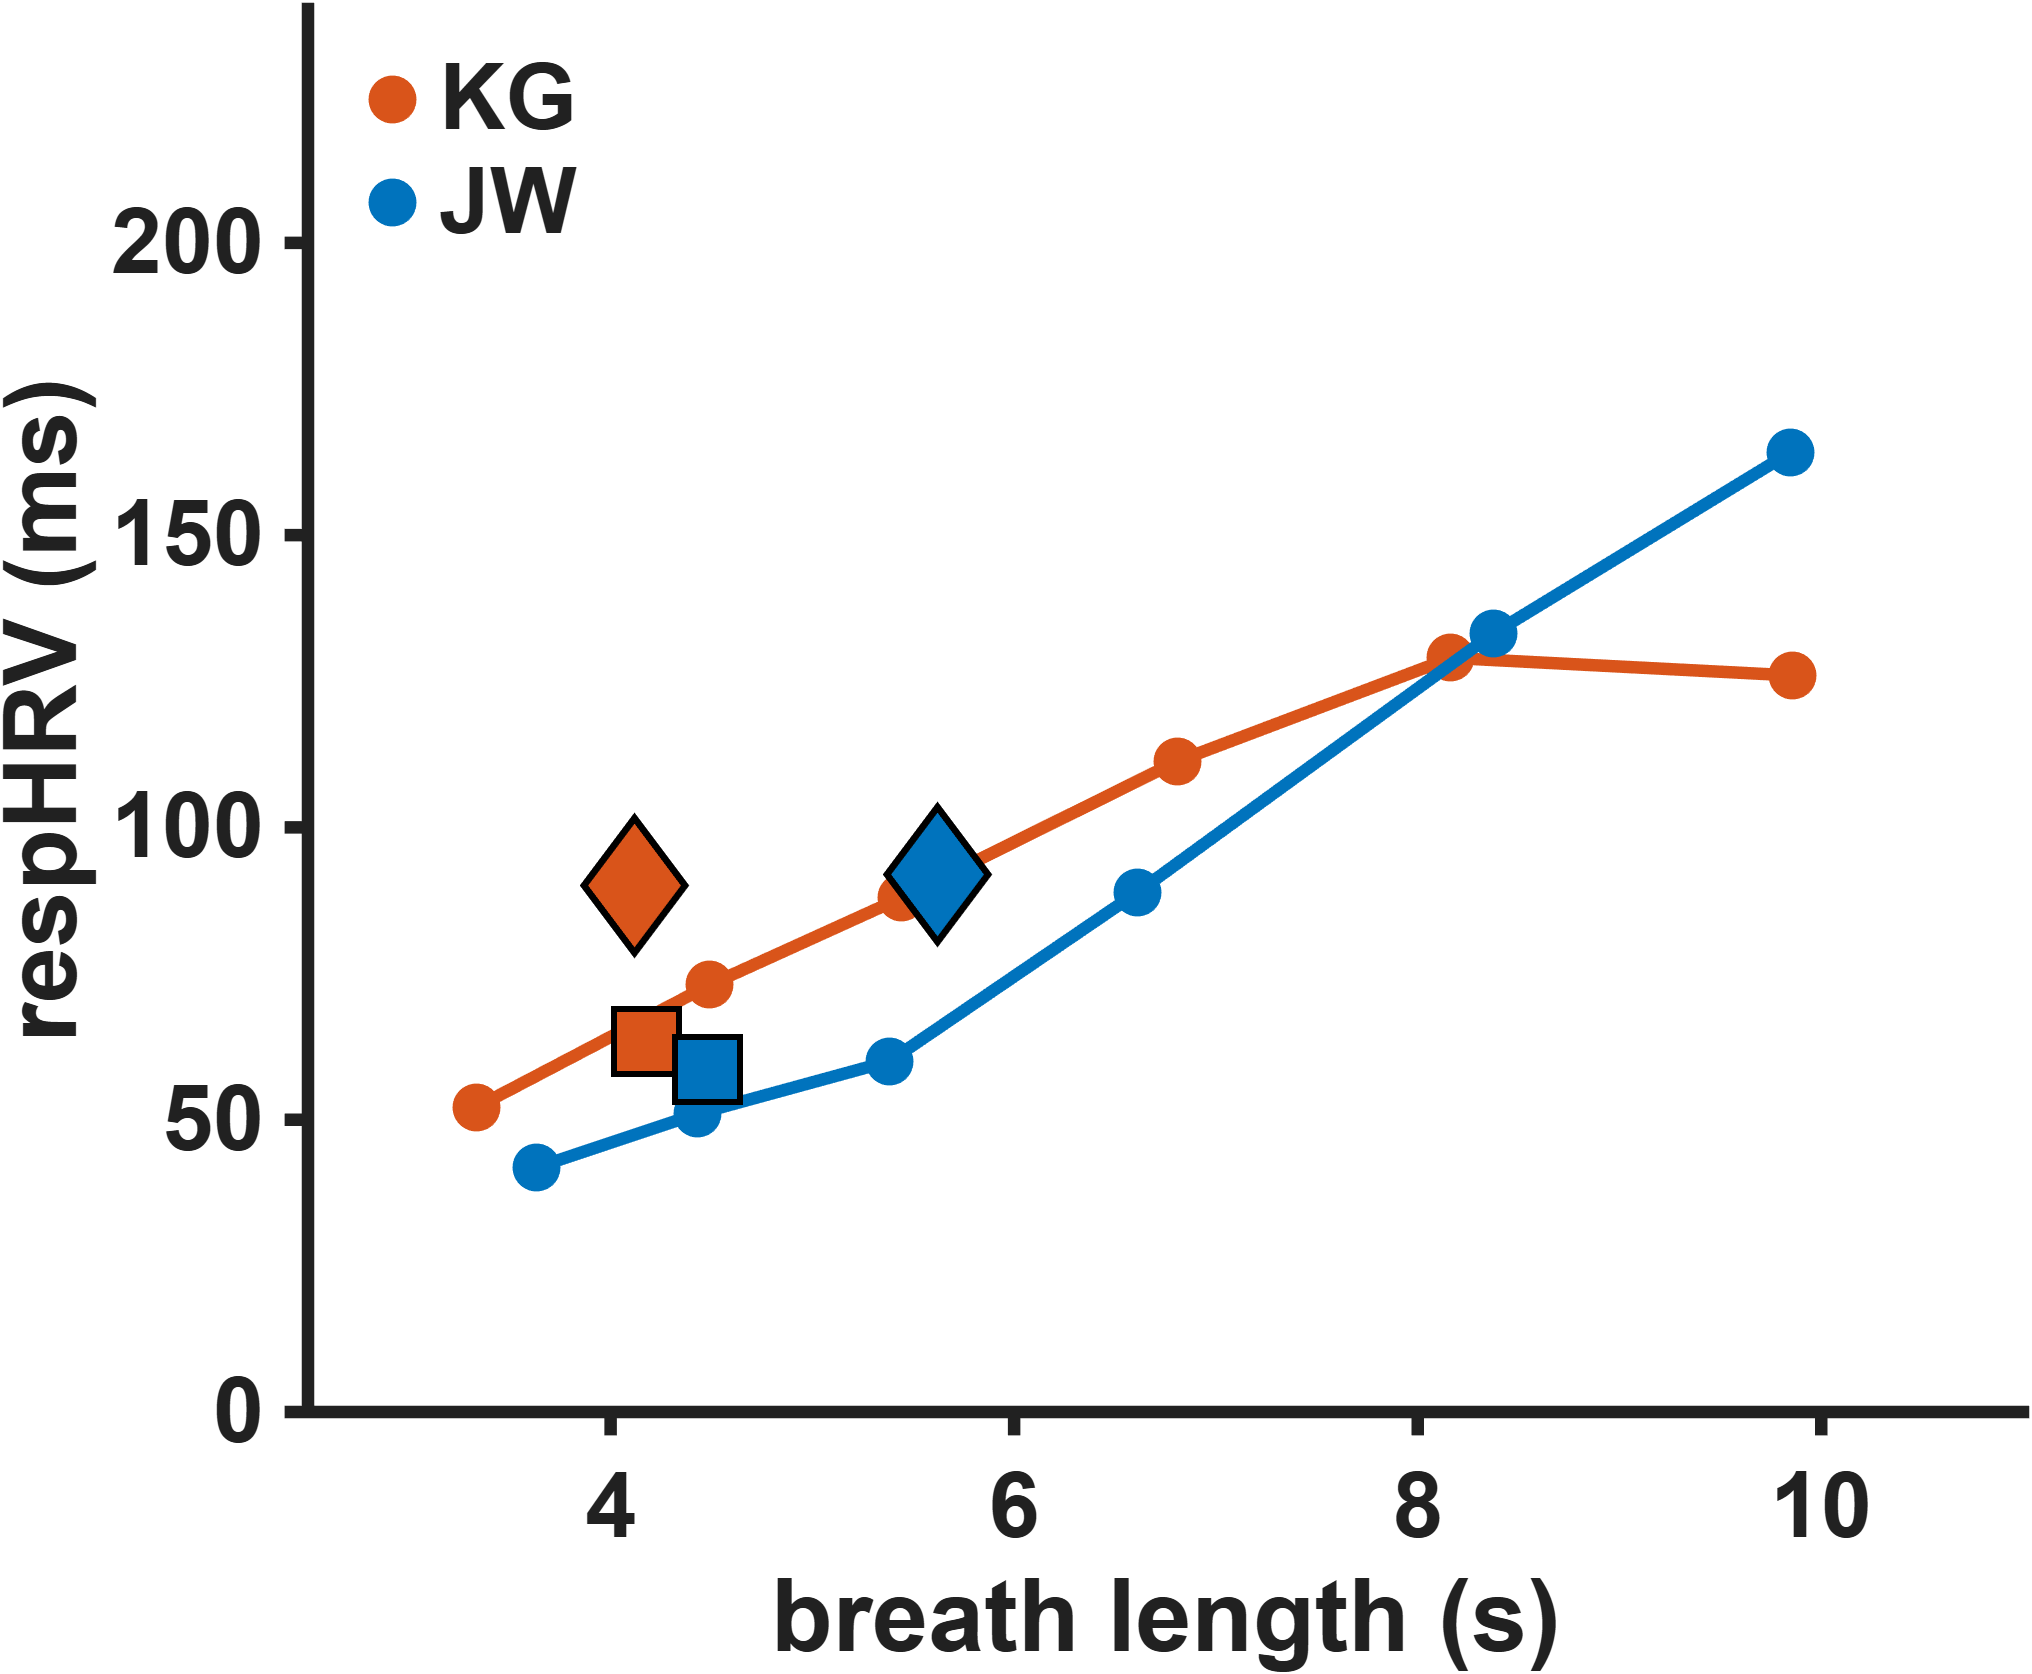
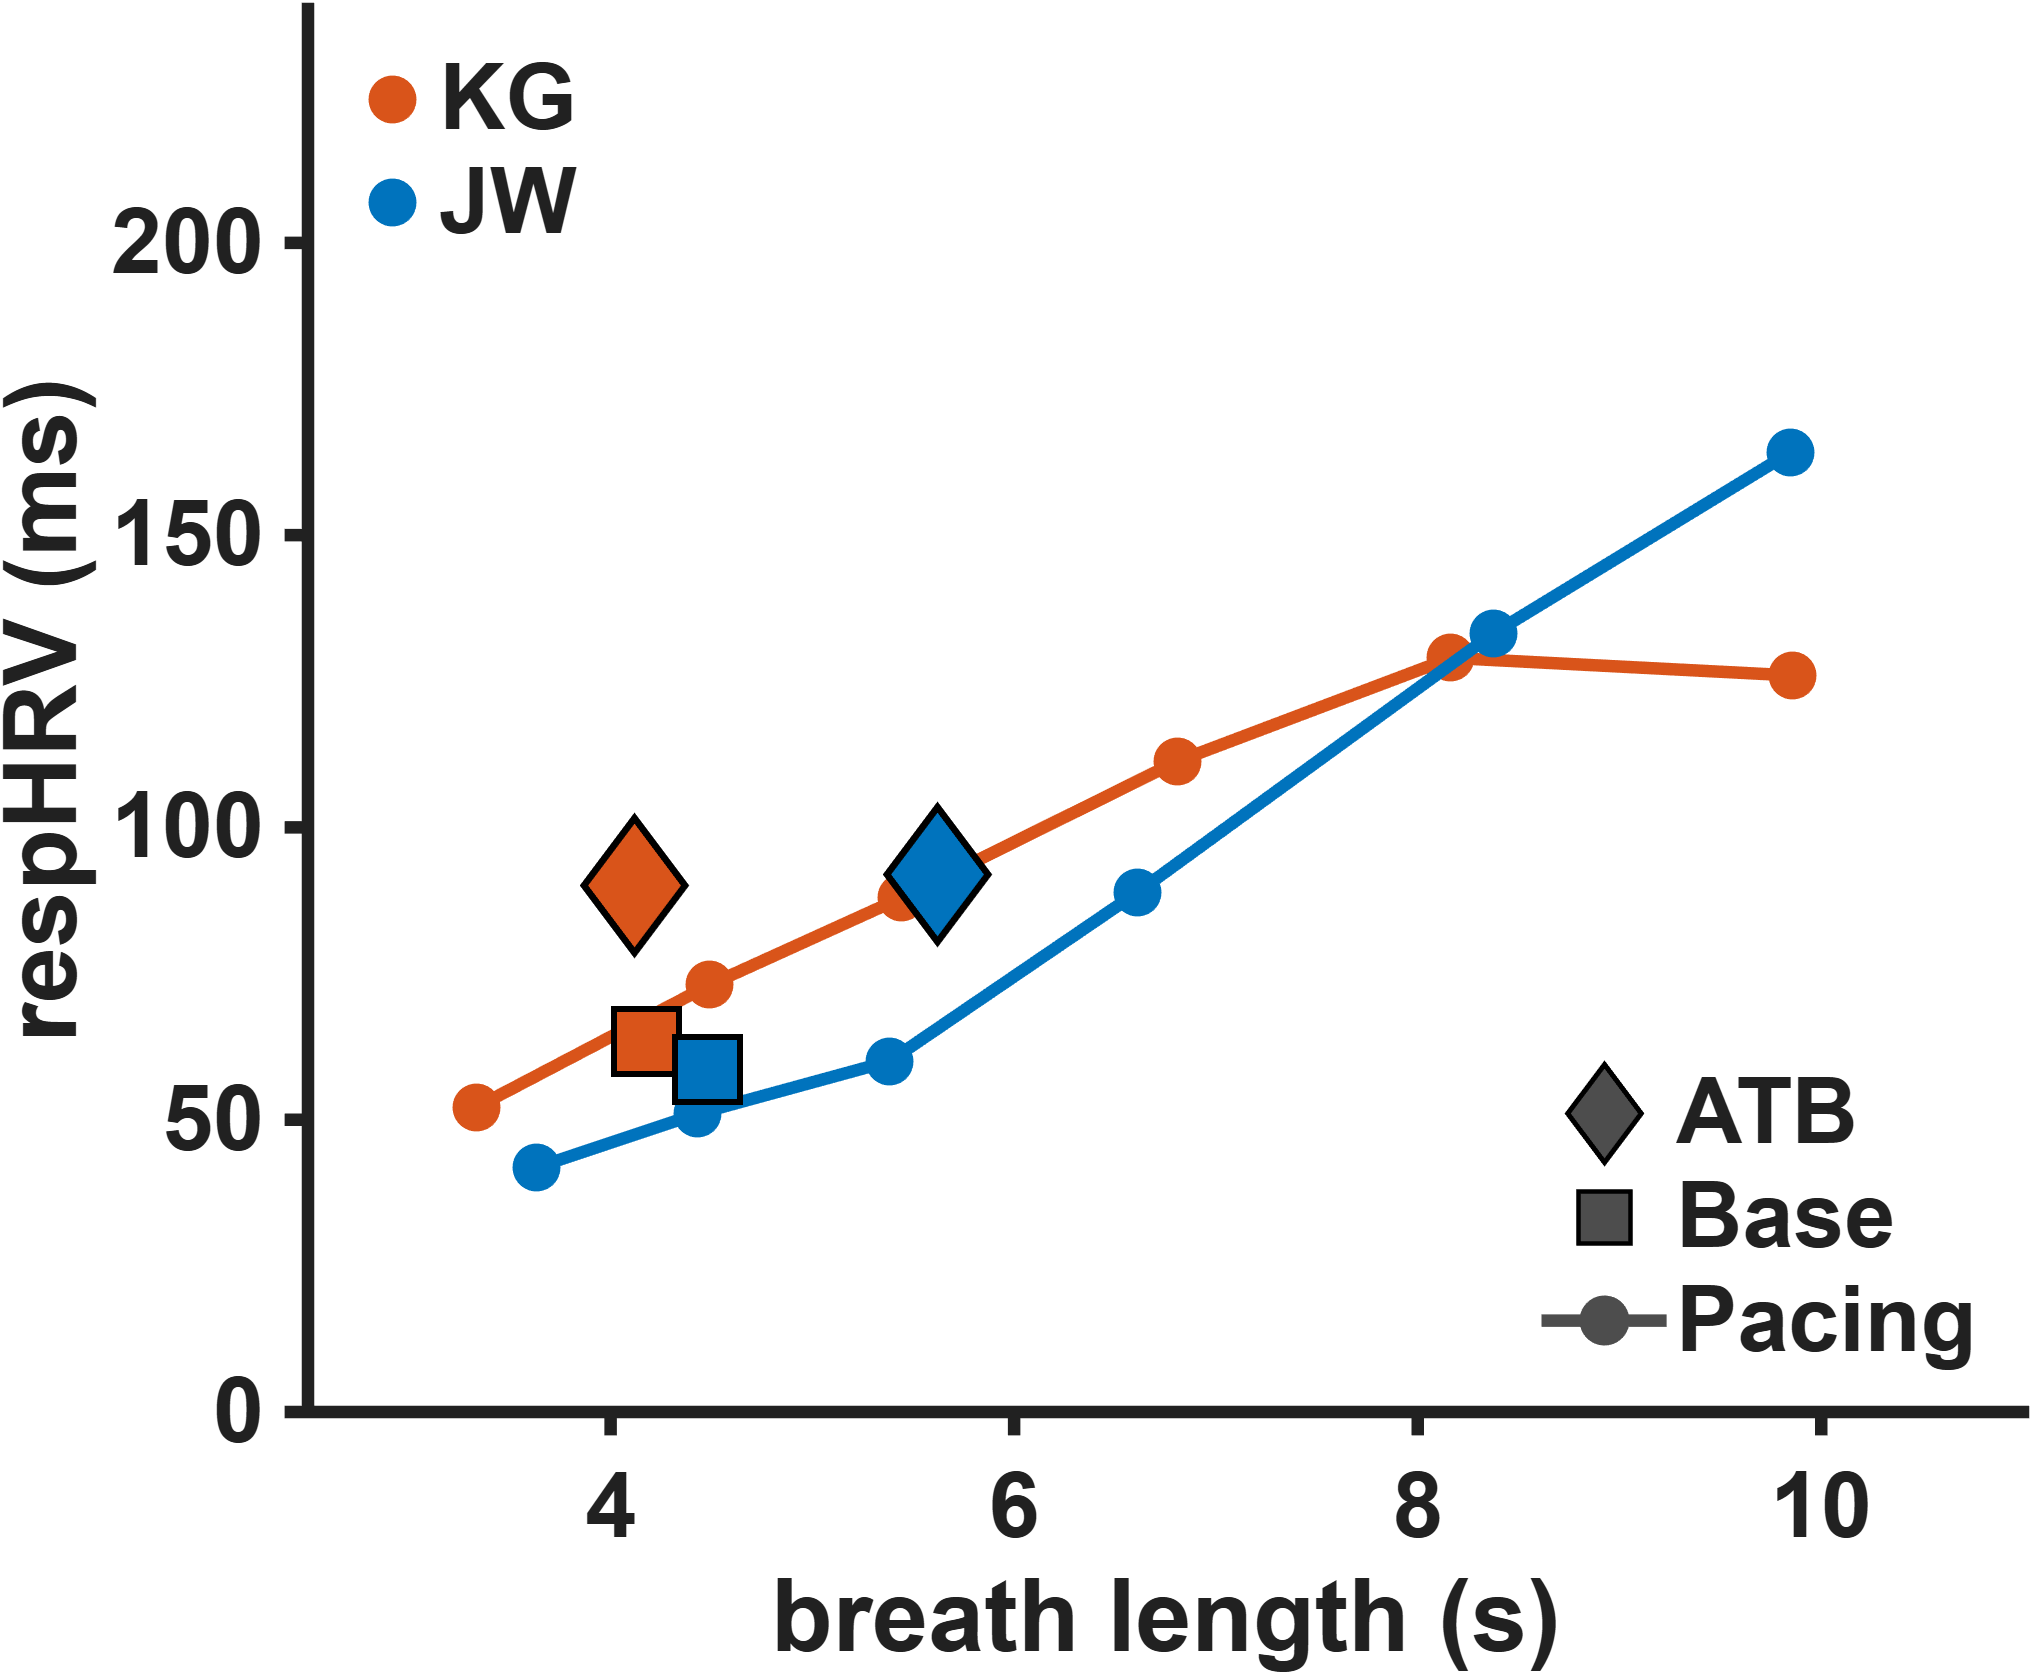
grant RSA-by-length: add a shape legend (diamond=ATB, square=Base, connected dot=Pacing)

Changed region(s): [[0.7441, 0.6213, 0.9921, 0.8387]]

diff --git a/reports/pacedBreathing_grantFigures/grantFigs.m b/reports/pacedBreathing_grantFigures/grantFigs.m
@@ -118,6 +118,16 @@ xlabel(ax, 'breath length (s)', 'FontSize', FS_LAB, 'FontWeight', 'bold');
 ylabel(ax, 'respHRV (ms)', 'FontSize', FS_LAB, 'FontWeight', 'bold');
 styleAx(ax);
 legend(h, names, 'FontSize', FS_TICK, 'FontWeight', 'bold', 'Location', 'northwest', 'Box', 'off');
+% second legend: symbol -> period (neutral grey so it reads independently of participant colour)
+lgc = [0.30 0.30 0.30];
+ax2 = axes('Parent', fig, 'Position', ax.Position, 'Color', 'none', 'XColor', 'none', ...
+    'YColor', 'none', 'XLim', xlim(ax), 'YLim', ylim(ax), 'HandleVisibility', 'off');
+hold(ax2, 'on');
+sD = plot(ax2, nan, nan, 'd', 'MarkerSize', 16, 'MarkerFaceColor', lgc, 'MarkerEdgeColor', 'k', 'LineWidth', 1.5);
+sS = plot(ax2, nan, nan, 's', 'MarkerSize', 16, 'MarkerFaceColor', lgc, 'MarkerEdgeColor', 'k', 'LineWidth', 1.5);
+sP = plot(ax2, nan, nan, '-o', 'Color', lgc, 'MarkerFaceColor', lgc, 'MarkerEdgeColor', lgc, 'MarkerSize', 9, 'LineWidth', AXLW);
+legend(ax2, [sD sS sP], {'ATB', 'Base', 'Pacing'}, 'FontSize', FS_TICK, 'FontWeight', 'bold', ...
+    'Location', 'southeast', 'Box', 'off');
 exportgraphics(fig, fullfile(OUT, 'KG_JW_RSA_by_length.png'), 'Resolution', 300, 'BackgroundColor', 'white');
 close(fig);
 
